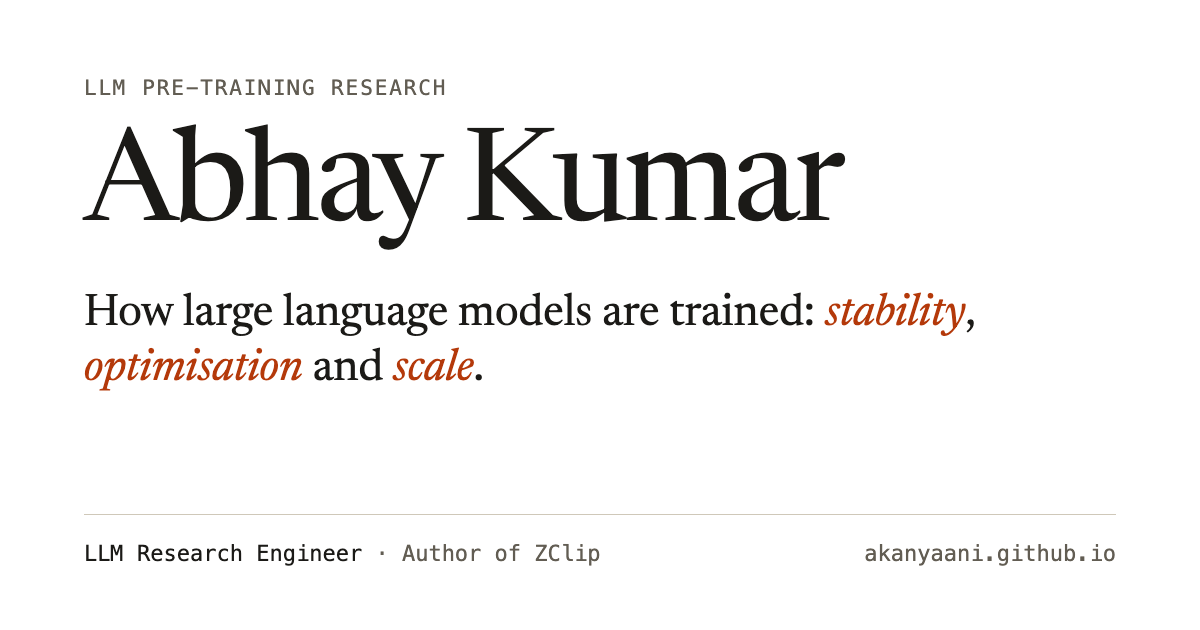
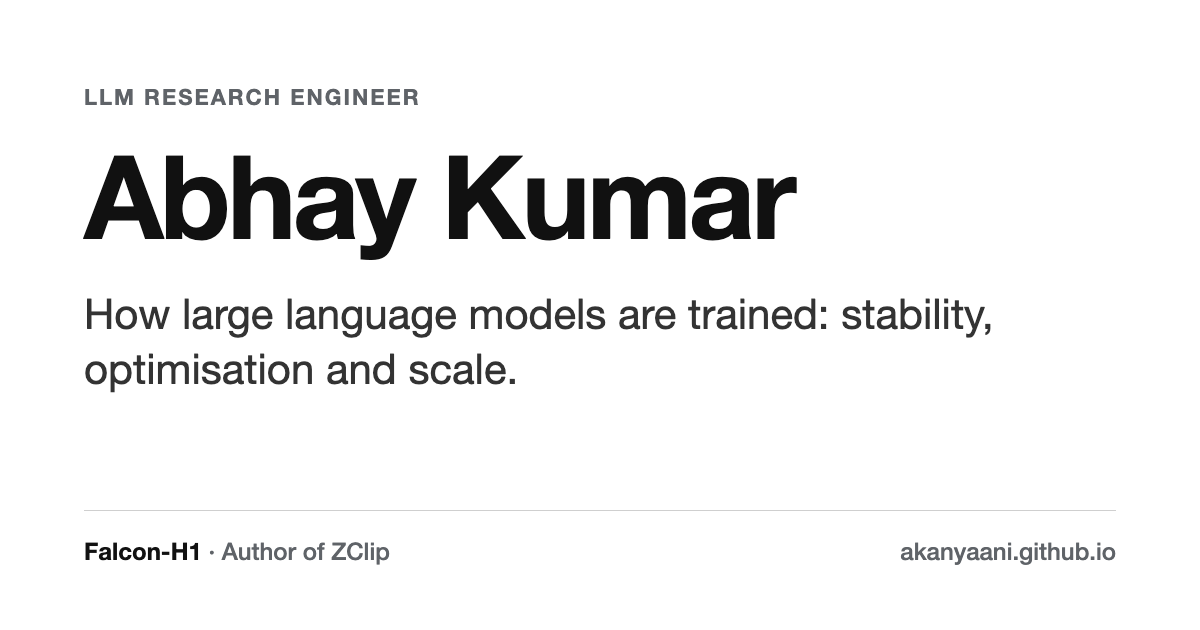
System sans font, single neutral colour scheme, drop BED paper

diff --git a/style.css b/style.css
@@ -6,34 +6,34 @@
 :root {
   --bg: #ffffff;
   --bg-raised: #ffffff;
-  --ink: #1b1a17;
-  --ink-soft: #3b3933;
-  --muted: #625d53;
-  --rule: #e3ded3;
-  --rule-strong: #cfc8b9;
-  --accent: #b4390a;
-  --accent-soft: rgba(180, 57, 10, 0.09);
-  --focus: #b4390a;
+  --ink: #111111;
+  --ink-soft: #333333;
+  --muted: #5f6368;
+  --rule: #e6e6e6;
+  --rule-strong: #cfcfcf;
+  --accent: #111111;
+  --accent-soft: rgba(0, 0, 0, 0.05);
+  --focus: #111111;
 
-  --serif: "Newsreader", "Iowan Old Style", "Palatino Linotype", Palatino, Georgia, serif;
-  --sans: -apple-system, BlinkMacSystemFont, "Segoe UI", "Helvetica Neue", Helvetica, Arial, sans-serif;
-  --mono: ui-monospace, "SF Mono", SFMono-Regular, Menlo, Consolas, "Liberation Mono", monospace;
+  --sans: -apple-system, BlinkMacSystemFont, "Segoe UI", Roboto, "Helvetica Neue", Helvetica, Arial, sans-serif;
+  --serif: var(--sans);
+  --mono: var(--sans);
 
   --wrap: 1080px;
   --gutter: clamp(20px, 5vw, 48px);
 }
 
 :root[data-theme="dark"] {
-  --bg: #121311;
-  --bg-raised: #191a18;
-  --ink: #edebe5;
-  --ink-soft: #d3d0c7;
-  --muted: #a5a195;
-  --rule: #2a2b27;
-  --rule-strong: #3d3e38;
-  --accent: #ff9159;
-  --accent-soft: rgba(255, 145, 89, 0.12);
-  --focus: #ff9159;
+  --bg: #121212;
+  --bg-raised: #191919;
+  --ink: #ededed;
+  --ink-soft: #d2d2d2;
+  --muted: #a3a3a3;
+  --rule: #2a2a2a;
+  --rule-strong: #3d3d3d;
+  --accent: #ededed;
+  --accent-soft: rgba(255, 255, 255, 0.08);
+  --focus: #ededed;
 }
 
 /* ---------- base ---------- */
@@ -211,23 +211,23 @@ a:hover { color: var(--accent); text-decoration-color: currentColor; }
 
 h1 {
   font-family: var(--serif);
-  font-weight: 400;
-  font-size: clamp(2.6rem, 6vw, 4.2rem);
-  line-height: 0.98;
-  letter-spacing: -0.028em;
+  font-weight: 700;
+  font-size: clamp(2.4rem, 5.4vw, 3.6rem);
+  line-height: 1.05;
+  letter-spacing: -0.03em;
 }
 
 .lede {
   font-family: var(--serif);
-  font-size: clamp(1.4rem, 2.7vw, 1.9rem);
-  line-height: 1.28;
+  font-size: clamp(1.2rem, 2.2vw, 1.5rem);
+  line-height: 1.35;
   letter-spacing: -0.012em;
   color: var(--ink);
-  margin-top: 20px;
-  max-width: 24em;
+  margin-top: 18px;
+  max-width: 26em;
   text-wrap: balance;
 }
-.lede em { font-style: italic; color: var(--accent); }
+.lede em { font-style: normal; font-weight: 600; }
 
 .role {
   margin-top: 14px;
@@ -266,10 +266,11 @@ h1 {
 }
 .hl dt {
   font-family: var(--serif);
-  font-size: 1.5rem;
+  font-size: 1.3rem;
+  font-weight: 700;
   line-height: 1.2;
-  letter-spacing: -0.01em;
-  color: var(--accent);
+  letter-spacing: -0.015em;
+  color: var(--ink);
 }
 .hl dd { margin: 6px 0 0; font-size: 0.88rem; line-height: 1.45; color: var(--muted); }
 
@@ -302,7 +303,7 @@ h1 {
 }
 h2 {
   font-family: var(--serif);
-  font-weight: 400;
+  font-weight: 600;
   font-size: 1.7rem;
   line-height: 1.15;
   letter-spacing: -0.015em;
@@ -349,7 +350,7 @@ h2 {
 
 .pub h3 {
   font-family: var(--serif);
-  font-weight: 500;
+  font-weight: 600;
   font-size: clamp(1.3rem, 2.3vw, 1.62rem);
   line-height: 1.22;
   letter-spacing: -0.012em;
@@ -511,7 +512,7 @@ h2 {
 
 .contact-line {
   font-family: var(--serif);
-  font-size: clamp(1.3rem, 2.4vw, 1.7rem);
+  font-size: clamp(1.15rem, 2vw, 1.4rem);
   line-height: 1.34;
   letter-spacing: -0.01em;
   max-width: 26em;

diff --git a/index.html b/index.html
@@ -39,10 +39,7 @@
     })();
   </script>
 
-  <link rel="preconnect" href="https://fonts.googleapis.com">
-  <link rel="preconnect" href="https://fonts.gstatic.com" crossorigin>
-  <link href="https://fonts.googleapis.com/css2?family=Newsreader:ital,opsz,wght@0,6..72,400;0,6..72,500;1,6..72,400&display=swap" rel="stylesheet">
-  <link rel="stylesheet" href="style.css?v=4">
+  <link rel="stylesheet" href="style.css?v=5">
 
   <script type="application/ld+json">
   {
@@ -148,12 +145,6 @@
             <p class="authors">Louis Owen, Vishesh Tripathi, <b>Abhay Kumar</b>, Biddwan Ahmed</p>
             <p class="pub-links"><a href="https://arxiv.org/abs/2403.09362" rel="noopener">arXiv:2403.09362</a><a href="https://huggingface.co/Yellow-AI-NLP/komodo-7b-base" rel="noopener">Model</a></p>
           </li>
-          <li class="pub">
-            <p class="pub-meta"><span>2023</span><span>ICAICTA 2023 (IEEE)</span></p>
-            <h3><a href="https://arxiv.org/abs/2306.08852" rel="noopener">BED: Bi-Encoder-Based Detectors for Out-of-Distribution Detection</a></h3>
-            <p class="authors">Louis Owen, Biddwan Ahmed, <b>Abhay Kumar</b></p>
-            <p class="pub-links"><a href="https://arxiv.org/abs/2306.08852" rel="noopener">arXiv:2306.08852</a><a href="https://ieeexplore.ieee.org/document/10389907" rel="noopener">IEEE Xplore</a></p>
-          </li>
         </ol>
       </div>
     </section>
@@ -248,6 +239,6 @@
     </div>
   </footer>
 
-  <script src="script.js?v=4" defer></script>
+  <script src="script.js?v=5" defer></script>
 </body>
 </html>
